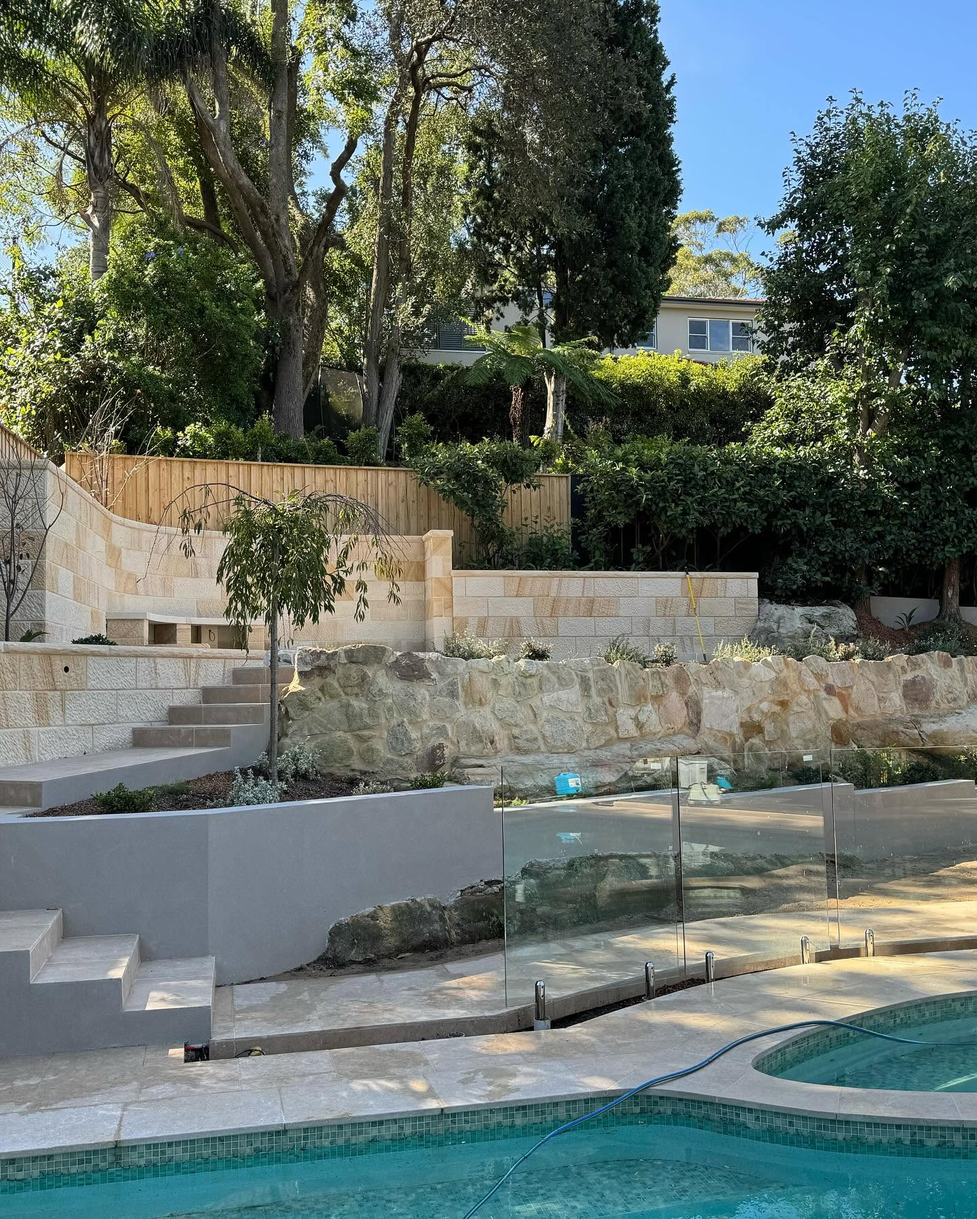
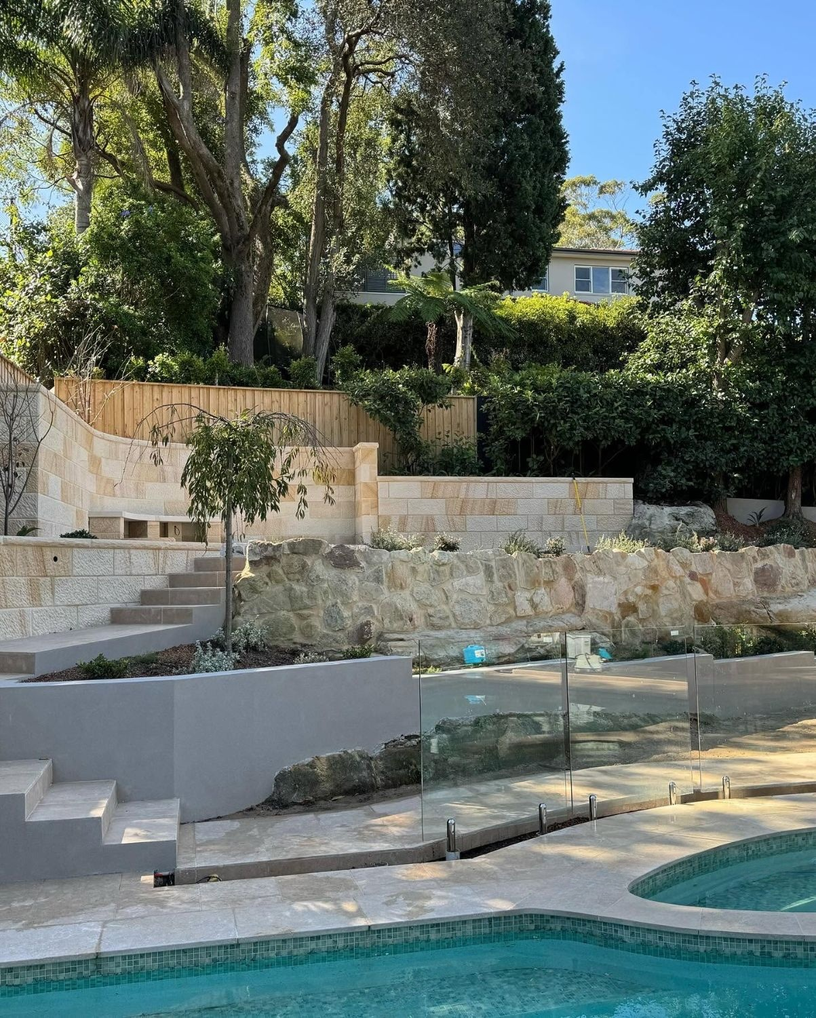
Update the Neutral Bay quote and Hospitals That Heal photos

diff --git a/src/pages/SitePages.jsx b/src/pages/SitePages.jsx
@@ -636,7 +636,7 @@ export function SustainabilityPage() {
       </Band>
 
       <Band tone="white">
-        <Split image="/images/terrace-palms-stone-paving.jpg" alt="Terrace garden with palms and stone paving, a Ground Up project">
+        <Split image="/images/green-wall-planting.jpg" alt="Two people tending plants on a vertical garden wall">
           <h2 className="font-display font-semibold text-3xl sm:text-4xl text-ink leading-[1.1] tracking-[0.2em]">
             Hospitals that heal
           </h2>
